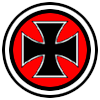
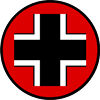
* update flag images in the base flags folder (u-boat,Veqryn)
* allow flag images to be gif or png, gif's will be preferred if both are available to prevent new images in the base folder from overriding images in mods (sgb)

diff --git a/trunk/triplea/src/games/strategy/triplea/image/FlagIconImageFactory.java b/trunk/triplea/src/games/strategy/triplea/image/FlagIconImageFactory.java
@@ -48,15 +48,17 @@ public class FlagIconImageFactory extends ImageFactory
     public Image getFlag(PlayerID id)
     {
         String key = PREFIX + id.getName() + ".gif";
+        String key2 = PREFIX + id.getName() + ".png";
         
-        return getImage(key, true);
+        return getImage(key, key2, true);
     }
 
   
     public Image getSmallFlag(PlayerID id)
     {
         String key = PREFIX + id.getName() + "_small.gif";
-        return getImage(key, true);
+        String key2 = PREFIX + id.getName() + "_small.png";
+        return getImage(key, key2, true);
     }
 
     public Image getLargeFlag(PlayerID id)
@@ -68,7 +70,8 @@ public class FlagIconImageFactory extends ImageFactory
     public Image getFadedFlag(PlayerID id)
     {
         String key = PREFIX + id.getName() +  "_fade.gif";
-        return getImage(key, true);
+        String key2 = PREFIX + id.getName() +  "_fade.png";
+        return getImage(key, key2, true);
     }
 
     

diff --git a/trunk/triplea/src/games/strategy/triplea/image/ImageFactory.java b/trunk/triplea/src/games/strategy/triplea/image/ImageFactory.java
@@ -21,6 +21,15 @@ public class ImageFactory
         m_images.clear();
     }
 
+    protected Image getImage(String key1, String key2, boolean throwIfNotFound) {
+    	Image i1 = getImage(key1, false);
+    	
+    	if(i1 != null) {
+    		return i1;
+    	}    	
+    	return getImage(key2, throwIfNotFound);
+    }
+    
     protected Image getImage(String key, boolean throwIfNotFound)
     {
 
